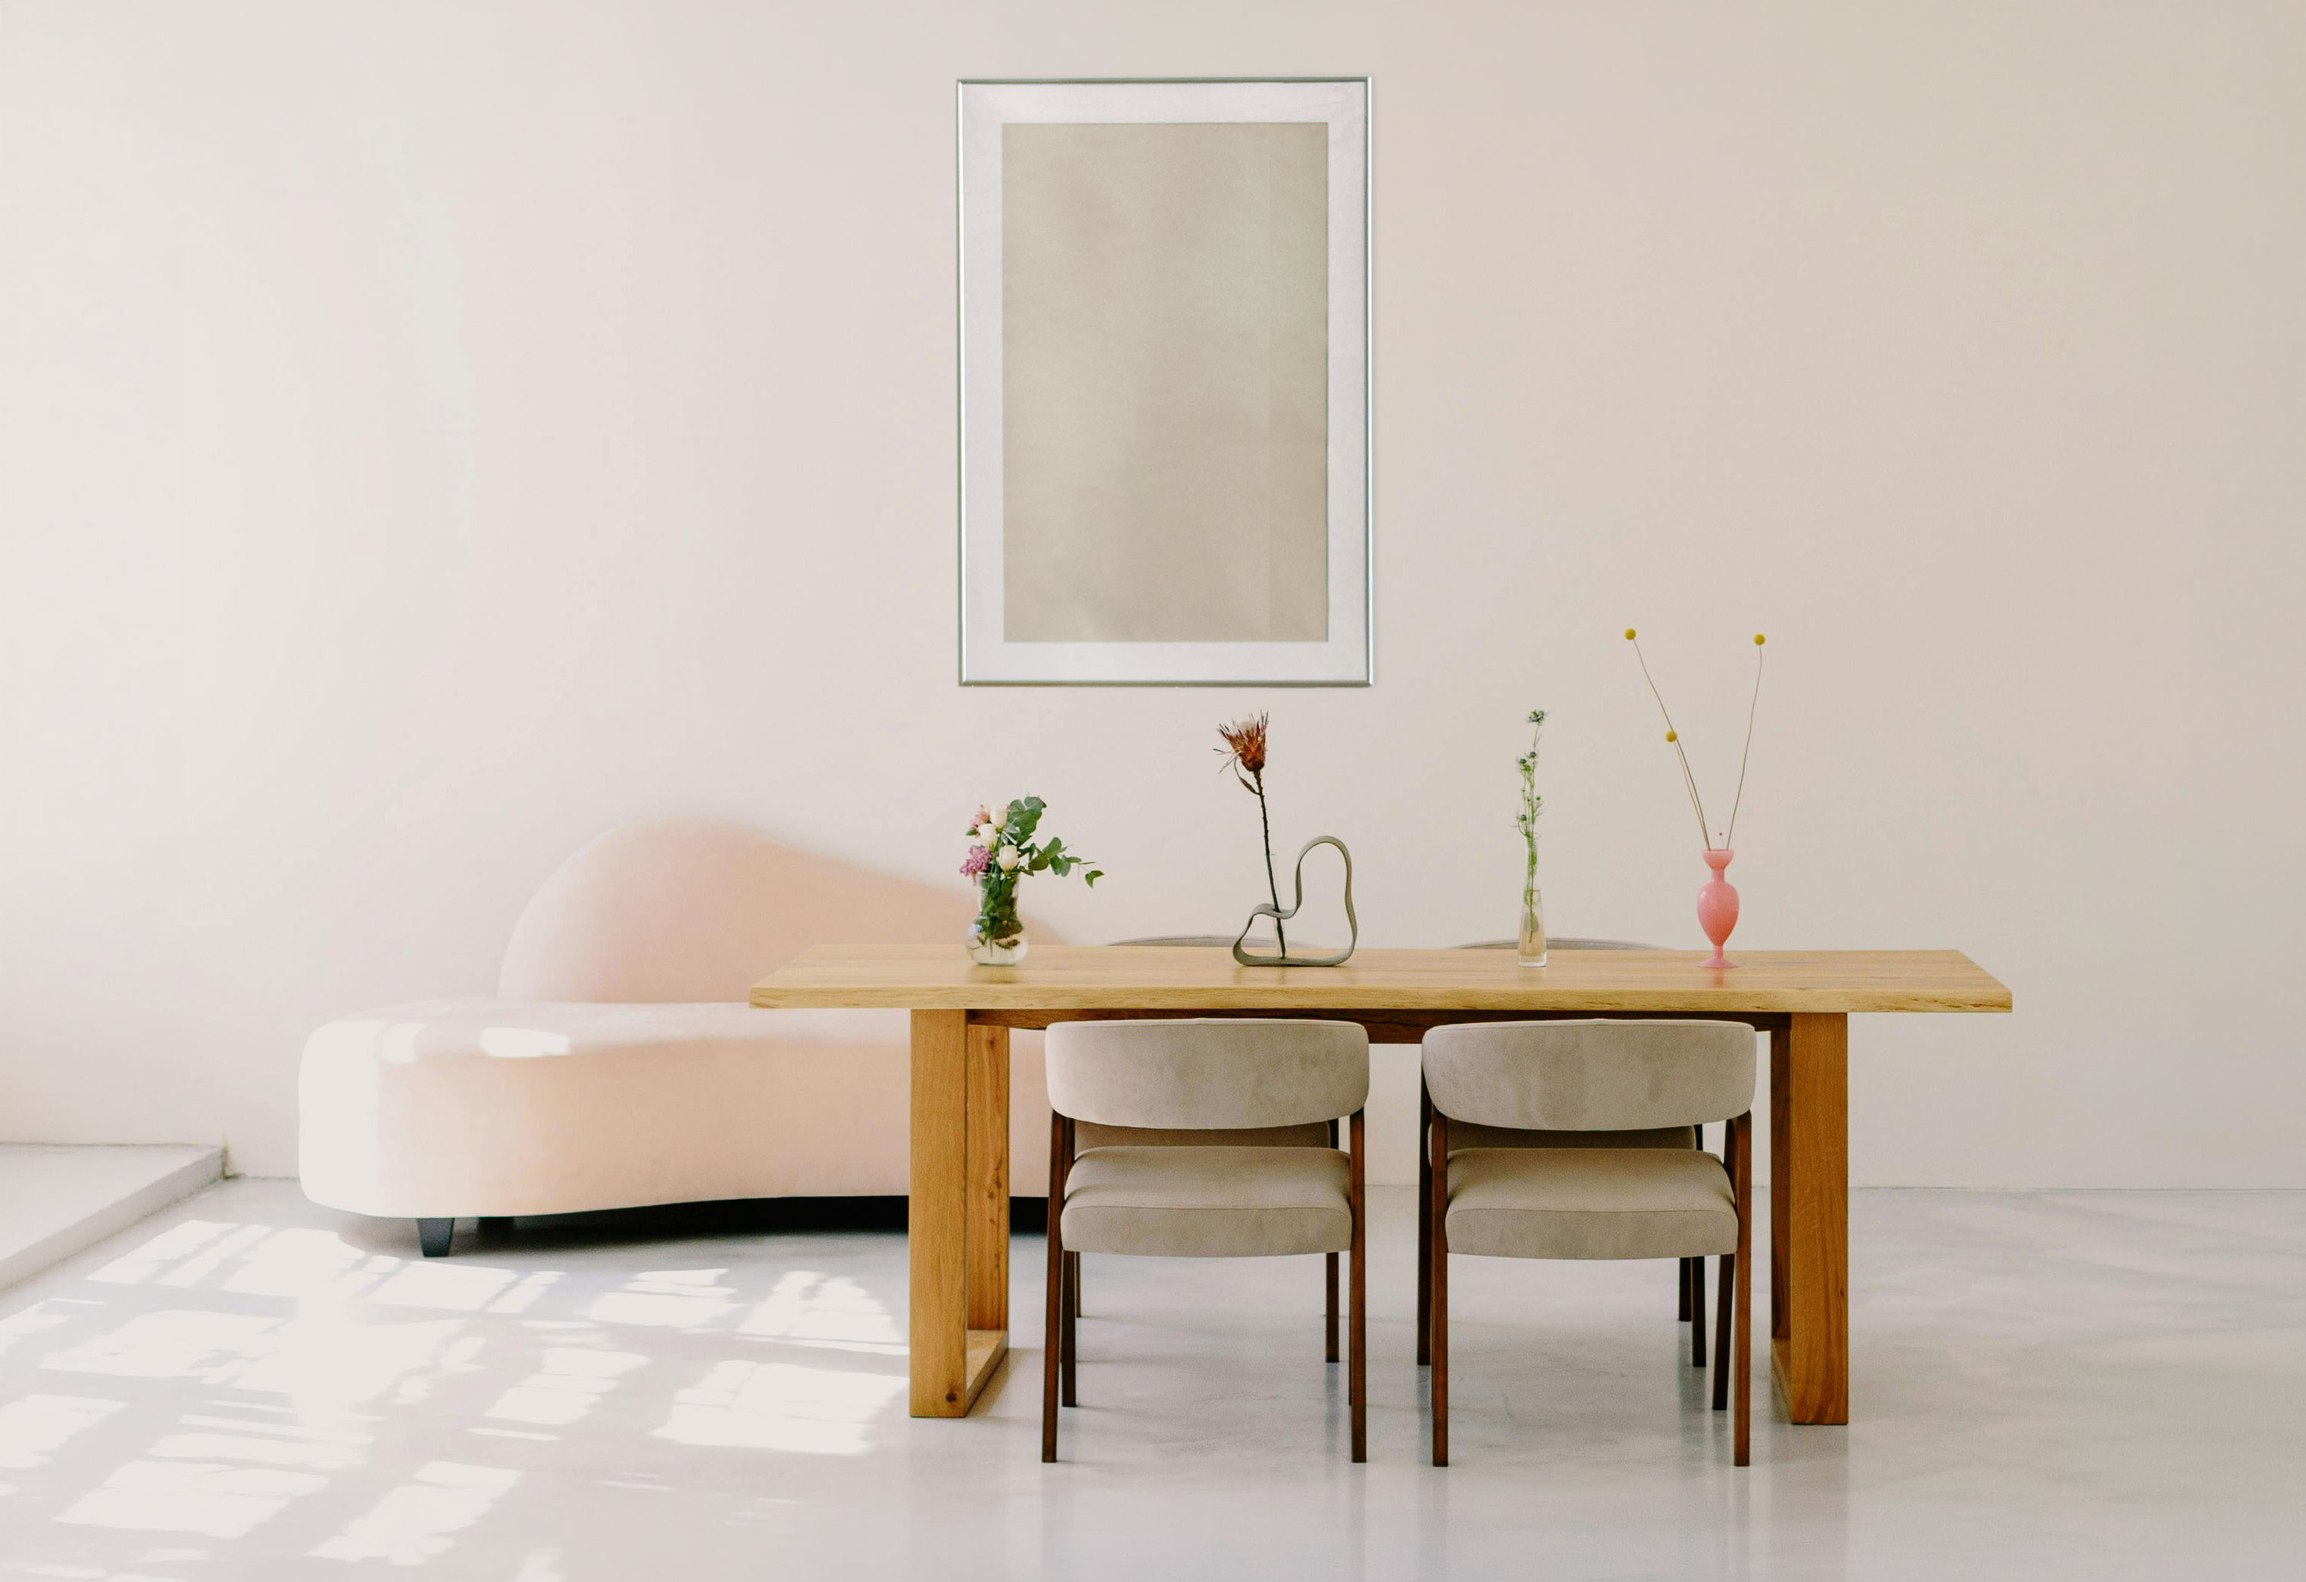
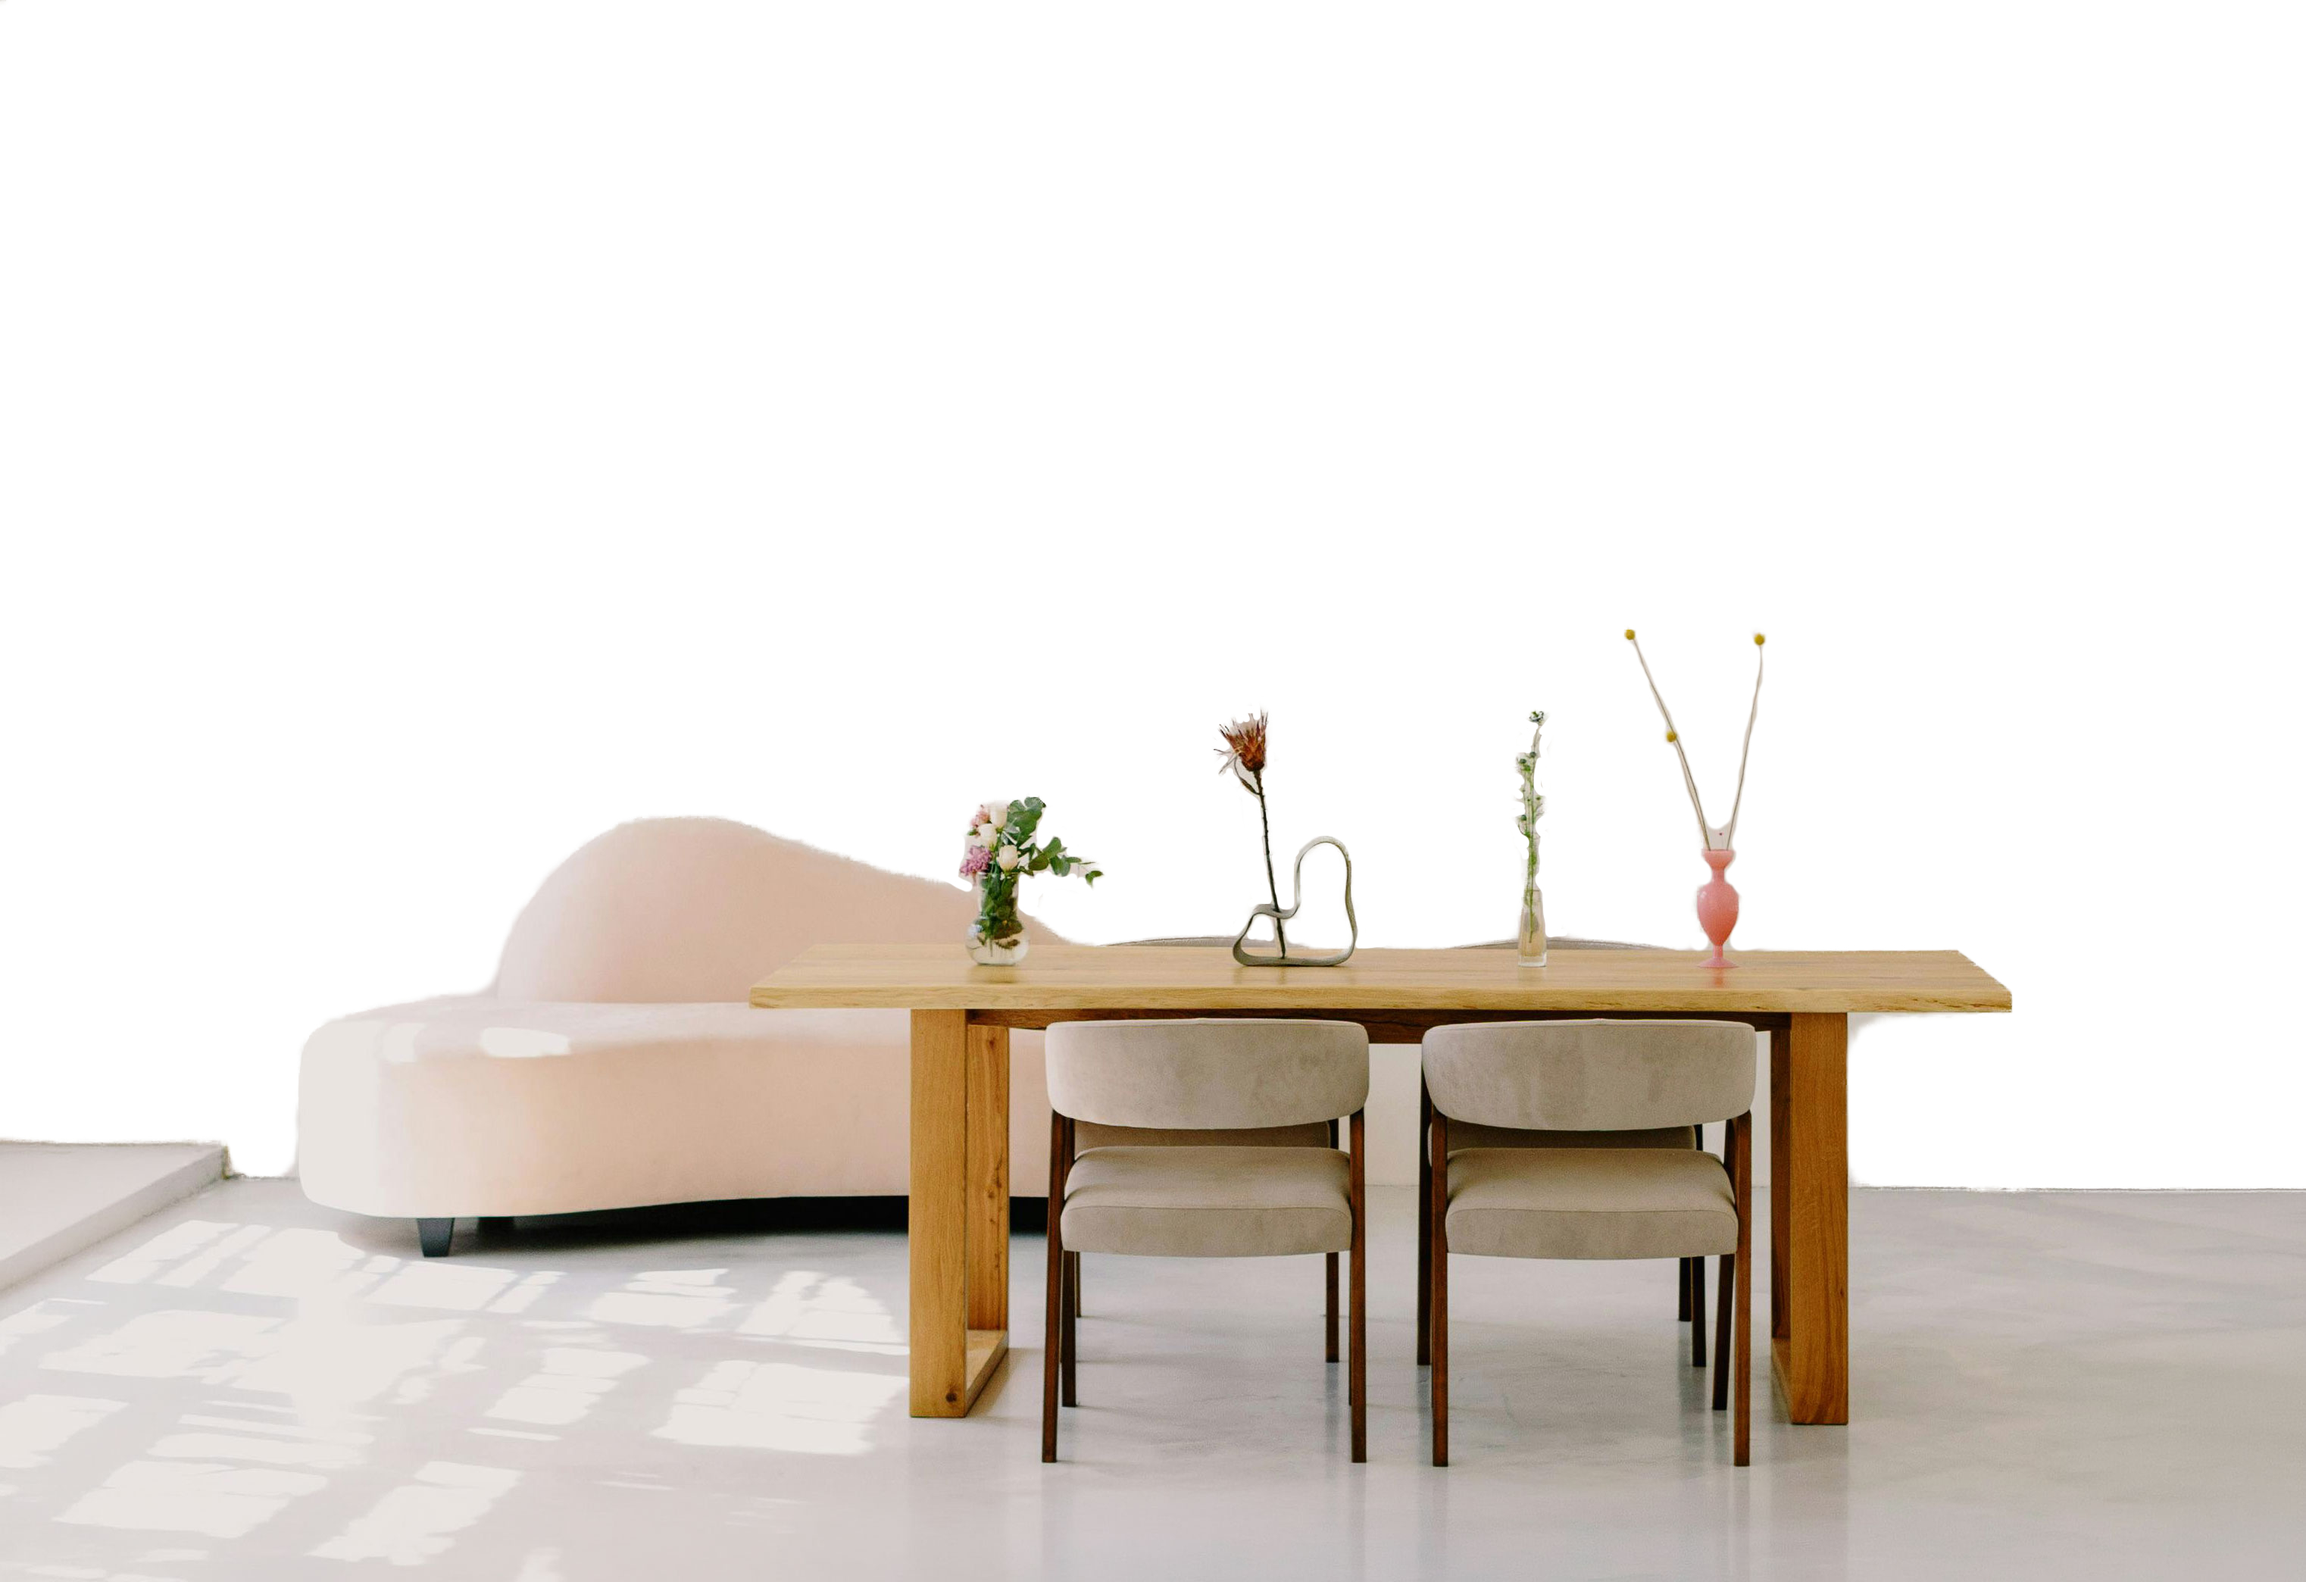
Updates tje shrink layers section with new css and bg image

diff --git a/src/components/shrink-layers-parallax.ts b/src/components/shrink-layers-parallax.ts
@@ -68,7 +68,7 @@ background:linear-gradient(69deg, rgb(233, 228, 223) 0%, rgb(217 207 201) 59% 65
       /* display: flex; */
       /* transform-origin: 30% 147px; */
       /* border: 25px solid transparent; */
-      padding: 5px;
+      padding: 60px;
       border: 15px solid transparent;
     }
     .frame {
@@ -77,7 +77,7 @@ background:linear-gradient(69deg, rgb(233, 228, 223) 0%, rgb(217 207 201) 59% 65
       height: 700px;
       width: 990px;
       height: 1390px;
-      top: 5%;
+      top: 3%;
       z-index: 0;
       /* left: 0;
       top: 0;
@@ -120,6 +120,7 @@ background:linear-gradient(69deg, rgb(233, 228, 223) 0%, rgb(217 207 201) 59% 65
       width: 100%;
       height: 100vh;
       position: absolute;
+      object-fit: cover;
       // start off screen
       transform: translateY(100%);
     }
@@ -130,7 +131,7 @@ background:linear-gradient(69deg, rgb(233, 228, 223) 0%, rgb(217 207 201) 59% 65
   @property({ type: Number }) convergenceStart = 300;
   @property({ type: Number }) convergenceEnd = 1500;
   @property({ type: Number }) scrollOutStart = 3000;
-  @property({ type: Number }) finalScale = 0.33;
+  @property({ type: Number }) finalScale = 0.43;
   @property({ type: String }) stageImage = '/img/livingroom-mockup-cutout.avif';
   @property({ type: String }) stageImageAlt = 'Stage Image';
 

diff --git a/src/components/workshop-container.ts b/src/components/workshop-container.ts
@@ -81,7 +81,7 @@ export class WorkshopContainer extends LitElement {
           // front
           src: '/img/held-wind-layer-1b-swoosh-big.avif',
           speed: 0.04,
-          startPos: '4200',
+          startPos: '4450',
           scale: 0.85,
           // stopPos: '20',
           position: { x: '8' },

diff --git a/src/components/hero-parallax.ts b/src/components/hero-parallax.ts
@@ -32,7 +32,7 @@ export class HeroParallax extends LitElement {
       min-height: 400px;
       /* height: 200vh; */
       height: 600vh;
-      height: 550vh;
+      height: 650vh;
       overflow: hidden;
       min-width: 2000px;
     }
